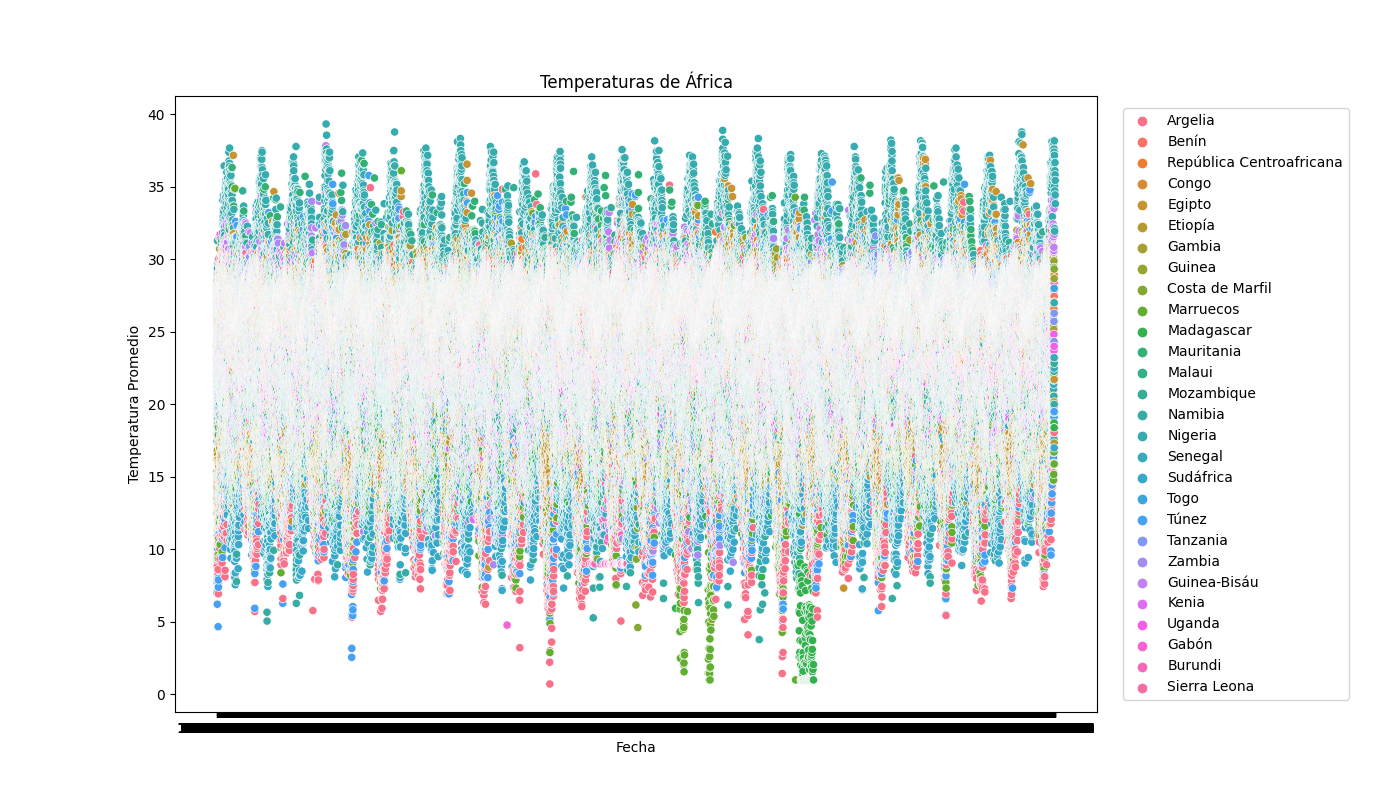
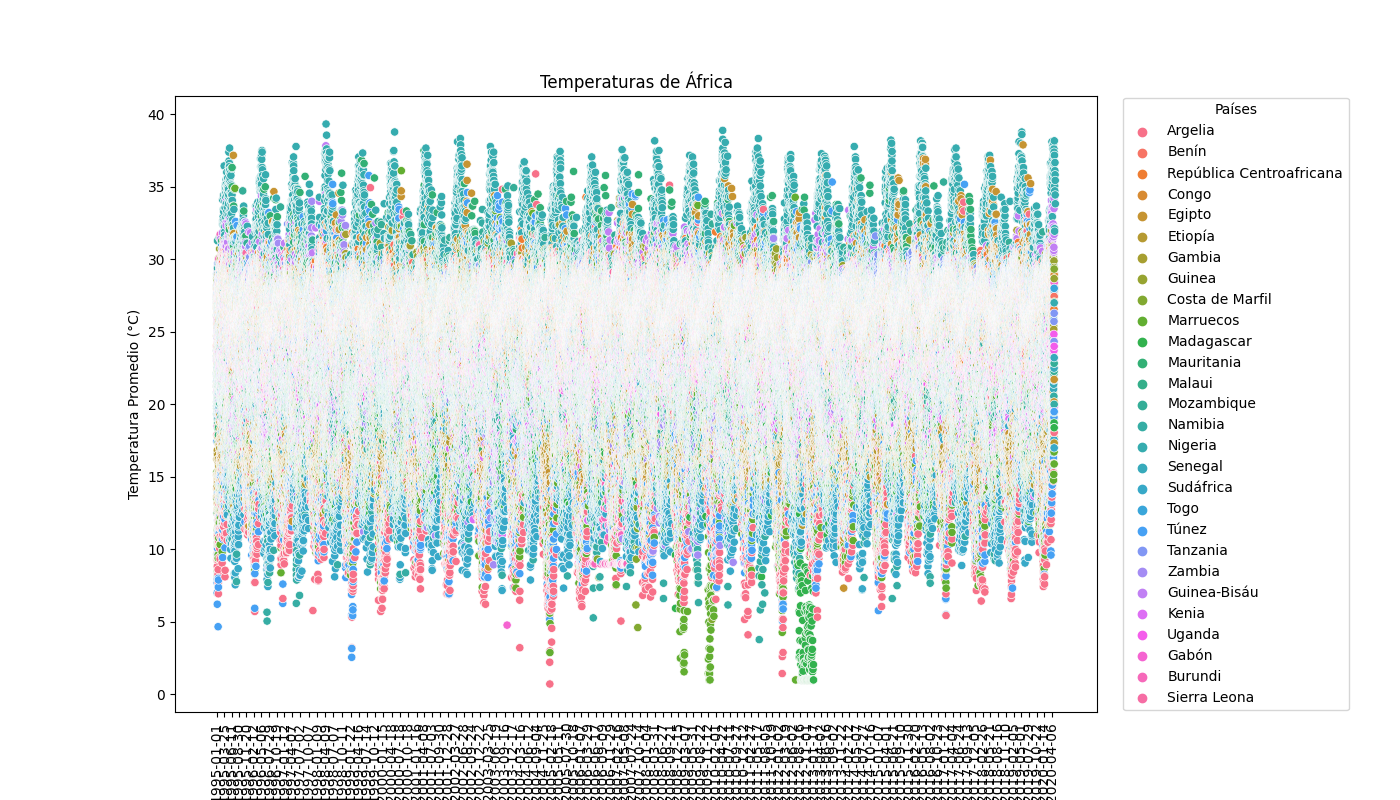
Fixed plots.

Changed region(s): [[0.1229, 0.875, 0.7986, 1.0], [0.7986, 0.125, 0.9521, 0.875], [0.0921, 0.4062, 0.1229, 0.625]]

diff --git a/src/plot/plot.py b/src/plot/plot.py
@@ -1,13 +1,17 @@
 import matplotlib.pyplot as plt
 import pandas as pd
 import seaborn as sns
-import numpy as np
 import src.constants as c
 
+
 def create_plots():
+	print('1. Creating continents pie chart')
 	continents_pie_chart()
+	print('2. Creating Argentina bar plot')
 	argentina_bar_plot()
+	print('3. Creating Argentina line plot')
 	argentina_line_plot()
+	print('4. Creating continents plots')
 	plot_continents()
 
 
@@ -24,9 +28,12 @@ def continents_pie_chart():
 
 
 def plot_continents():
+	print('4.1. Creating Africa scatter plot')
 	africa_scatter_plot()
+	print('4.2. Creating Oceania line plot')
 	oceania_line_plot()
-	south_america_multi_scatter()
+	print('4.3. Creating South America multi scatter plot')
+	south_america_multi_scatter_plot()
 
 
 def africa_scatter_plot():
@@ -35,12 +42,15 @@ def africa_scatter_plot():
 	plt.figure(figsize=(14, 8))
 	g = sns.scatterplot(data=df, x='Date', y='AvgTemperature', hue='Country')
 
+	ticks = list(df['Date'])
+	plt.xticks([ticks[i] for i in range(len(ticks)) if i % 2000 == 0], rotation='vertical')
 	plt.xlabel('Fecha')
-	plt.ylabel('Temperatura Promedio')
+	plt.ylabel('Temperatura Promedio (°C)')
 	plt.title('Temperaturas de África')
+
 	box = g.get_position()
 	g.set_position([box.x0, box.y0, box.width * 0.85, box.height])
-	g.legend(loc='center right', bbox_to_anchor=(1.28, 0.5), ncol=1)
+	g.legend(loc='center right', bbox_to_anchor=(1.28, 0.5), ncol=1, title="Países")
 
 	plt.savefig(c.AFRICA_SCATTER_PLOT_BY_DAY)
 	plt.show()
@@ -55,17 +65,18 @@ def oceania_line_plot():
 	ticks = list(df['Date'])
 	plt.xticks([ticks[i] for i in range(len(ticks)) if i % 30 == 0], rotation='vertical')
 	plt.xlabel('Fecha')
-	plt.ylabel('Temperatura Promedio')
+	plt.ylabel('Temperatura Promedio (°C)')
 	plt.title('Temperaturas de Oceanía')
+
 	box = g.get_position()
 	g.set_position([box.x0, box.y0, box.width * 0.85, box.height])
-	g.legend(loc='center right', bbox_to_anchor=(1.28, 0.5), ncol=1)
+	g.legend(loc='center right', bbox_to_anchor=(1.28, 0.5), ncol=1, title="Países")
 
 	plt.savefig(c.OCEANIA_LINE_PLOT_BY_MONTH)
 	plt.show()
 
 
-def south_america_multi_scatter():
+def south_america_multi_scatter_plot():
 	df = pd.read_csv(c.GROUP_SOUTH_AMERICA_BY_MONTH_PATH, low_memory=False)
 
 	plt.figure(figsize=(14, 10))
@@ -76,7 +87,7 @@ def south_america_multi_scatter():
 	grid.set_titles("{col_name}")
 	grid.set_xticklabels(rotation=90)
 	grid.set_xlabels('Fecha')
-	grid.set_ylabels('Temperatura Promedio')
+	grid.set_ylabels('Temperatura Promedio (°C)')
 
 	plt.savefig(c.SOUTH_AMERICA_MULTI_SCATTER_PLOT_BY_MONTH)
 	plt.show()
@@ -89,7 +100,7 @@ def argentina_bar_plot():
 
 	plt.bar(x, y)
 	plt.xlabel('Años')
-	plt.ylabel('Temperatura Promedio')
+	plt.ylabel('Temperatura Promedio (°C)')
 	plt.title('Temperatura promedio por año en Argentina')
 
 	plt.savefig(c.ARGENTINA_BOX_PLOT)
@@ -103,7 +114,7 @@ def argentina_line_plot():
 
 	plt.plot(x1, y1)
 	plt.xlabel('Año')
-	plt.ylabel('Temperatura Promedio')
+	plt.ylabel('Temperatura Promedio (°C)')
 	plt.title('Temperatura promedio por año en Argentina')
 
 	plt.savefig(c.ARGENTINA_LINE_PLOT)

diff --git a/src/main.py b/src/main.py
@@ -24,4 +24,4 @@ if __name__ == '__main__':
 	print('Took: ' + str(third) + ' seconds')
 
 	total = first + second + third
-	print('The whole process took: ' + str(total) + 'seconds')
+	print('The whole process took: ' + str(total) + ' seconds')
